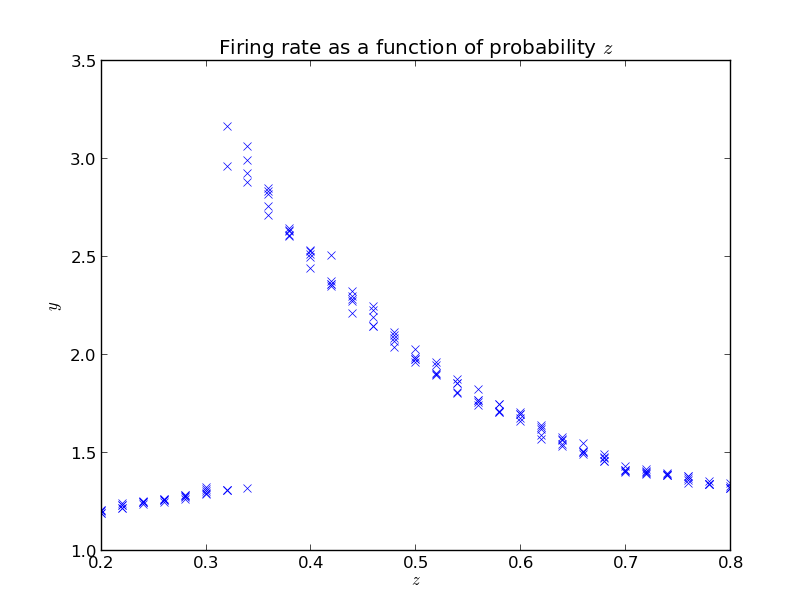
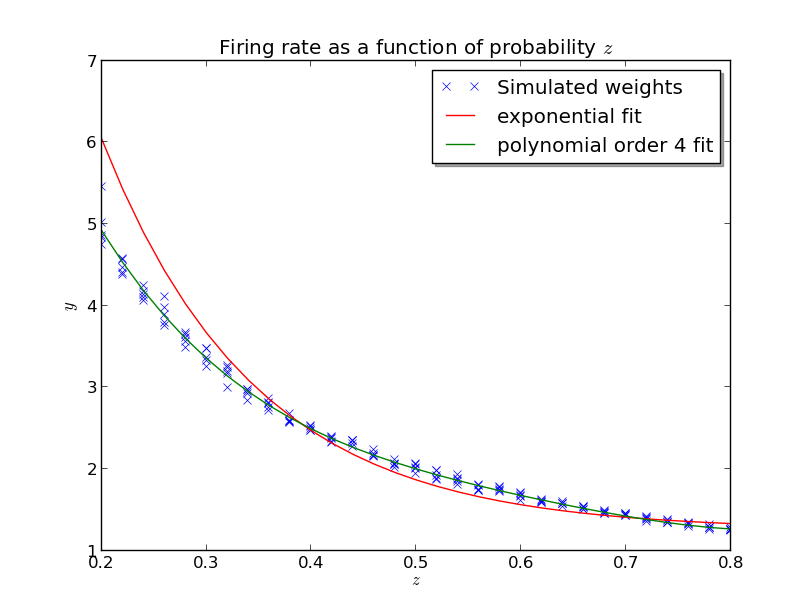
report and some code changes

diff --git a/miniproject1/ex1/plotter.py b/miniproject1/ex1/plotter.py
@@ -3,6 +3,30 @@ import numpy as np
 
 import sys
 
+def getPointsForFitting(data):
+    zInterval = []
+    w = []
+    lastZ = None
+    count = 0
+    nbZs = -1
+    for z, w_now in zip(data[:,0], data[:,1]):
+        if z != lastZ:
+            lastZ = z
+            count = 0
+            nbZs += 1
+            zInterval.append(z)
+            w.append(0.0)
+
+        w[nbZs] = float(count)/(count+1)*w[nbZs] + w_now/(count+1.0)
+        count += 1
+
+    interval = np.array(zInterval)
+    values = np.array(w)
+
+    assert (len(interval) == len(values))
+
+    return interval, values
+
 def fit_exponential(t, y, C=0):
     y = y - C
     y = np.log(y)
@@ -10,12 +34,27 @@ def fit_exponential(t, y, C=0):
     A = np.exp(A_log)
     return A, K
 
-def exponential(data, zInterval, index):
-    C = np.mean(data[-5:, 1] - 0.05)
-    A, K = fit_exponential(zInterval, data[index:, 1], C)
+def exponential(data):
+
+    (zInterval, w) = getPointsForFitting(data)
+
+    #C = np.mean(data[-5:, 1] - 0.05)
+    C = w[-1]
+    A, K = fit_exponential(zInterval[1:-1], w[1:-1], C)
     myexp = A * np.exp(K * zInterval) + C
 
-    return myexp
+    return (zInterval, myexp)
+
+def fit_polynomial(data, deg = 2):
+
+    (zInterval, w) = getPointsForFitting(data)
+    coeffs = np.polyfit(zInterval, w, deg)
+
+    poly = np.poly1d(coeffs)
+    curve = poly(zInterval)
+
+    return zInterval, curve
+
 
 def plot():
 
@@ -49,43 +88,42 @@ def plot():
     wdata = np.array(sorted(wdata))
     thdata = np.array(sorted(thdata))
 
-#    # exponential          
-#    index = 0
-#    for z in data[:, 0]:
-#        index += 1
-#        if z == 0.38:
-#            break
-#    #zInterval = np.linspace(0.38, 0.8, len(data) - index)
-#    zInterval = data[index:, 0]
-#
-#    curve = exponential(data, zInterval, index)
-
-
+    # exponential          
+    (expInterval, curveExp) = exponential(data)
+    (polyInterval, curvePoly) = fit_polynomial(data, 4)
 
     # plot
     figY = plt.figure(1)
-    plt.plot(data[:,0], data[:,1], 'x')
-    #plt.plot(zInterval, curve, 'r-')
+    plt.plot(data[:,0], data[:,1], 'x', label="Simulated weights")
+    plt.plot(expInterval, curveExp, 'r-', label="exponential fit")
+    plt.plot(polyInterval, curvePoly, 'g-', label="polynomial order 4 fit")
     plt.xlabel('$z$')
     plt.ylabel('$y$')
     plt.title('Firing rate as a function of probability $z$')
+    plt.legend(loc='upper right', shadow=True)
     figY.show()
 
-    figW = plt.figure(2)
-    plt.plot(wdata[:,0], wdata[:,1], 'x')
-    plt.xlabel('$z$')
-    plt.ylabel('$w$')
-    plt.title('Weights as a function of probability $z$')
-    figW.show()
-    
-    figTh = plt.figure(3)
-    plt.plot(thdata[:,0], thdata[:,1], 'x')
-    plt.xlabel('$z$')
-    plt.ylabel(r'$\theta$')
-    plt.title('Threshold as a function of probability $z$')
-    figTh.show()
+    #figW = plt.figure(2)
+    #plt.plot(wdata[:,0], wdata[:,1], 'x')
+    #plt.xlabel('$z$')
+    #plt.ylabel('$w$')
+    #plt.title('Weights as a function of probability $z$')
+    #figW.show()
+    #
+    #figTh = plt.figure(3)
+    #plt.plot(thdata[:,0], thdata[:,1], 'x')
+    #plt.xlabel('$z$')
+    #plt.ylabel(r'$\theta$')
+    #plt.title('Threshold as a function of probability $z$')
+    #figTh.show()
 
     raw_input()
+
+def plotOverTime(data):
+    data = np.array(data)
+
+    plt.plot(data[:,0], data[:,1])
+    plt.show()
 
 if __name__ == '__main__':
     plot()

diff --git a/miniproject1/report/answers3.tex b/miniproject1/report/answers3.tex
@@ -1,14 +1,36 @@
+\clearpage
 \section{Explaining V1 Receptive Field Formation}
 
-\paragraph{Preprocessing}
+\subsection{Code organization}
+
+The code organization is similar as in the question $1.2$. The files description
+is given below.
+\begin{itemize}
+    \item \texttt{ODE.py} contains the abstract class \texttt{ODE} which defines
+        the interface for ordinary differential equations.
+    \item \texttt{Integrator.py} contains the abstract class \texttt{Integrator}
+        and its derived classes \texttt{ForwardDifference} and
+        \texttt{RungeKutta4} which numerically solve an ordinary differential
+        equation.
+    \item \texttt{Neuron.py} contains the class \texttt{Neuron}, which derives
+        from \texttt{ODE}. It implements the functionality of a BCM neuron, and
+        also can be treated as an ODE.
+    \item \texttt{Patch.py} contains the class \texttt{Patch} which holds the
+        on and off arrays of an input patch.
+    \item \texttt{preprocess.py} implements the functionality for preprocessing
+        the given images and creation of the patches.
+    \item \texttt{plotter.py} contains the various functionality for plotting.
+    \item \texttt{simulation.py} loads the preprocessed data, generates the
+        patches and runs the simulation. In the end, it stores generated plots
+        in the directory \texttt{simulation}.
+\end{itemize}
+
+\subsection{Preprocessing}
 Normalization and generation of input patches was done in a separate
 preprocessing step. Preprocessing is called with
-\begin{figure}[!htbl]
-    \begin{verbatim}
+\begin{lstlisting}[language=bash]
 $ python preprocess.py
-\end{verbatim}
-\end{figure}
-
+\end{lstlisting}
 Normalization step creates the file with suffix \texttt{\_normalized.data},
 which contains a \texttt{numpy} array of normalized input image, serialized to
 string. Afterwards, the file which describes patches is created. Its suffix is
@@ -17,6 +39,8 @@ coordinates of upper-left corner of the $16\times16$ pixel patch. No two
 patches are identical. This way of describing patches makes sure that additional
 preprocessed data won't take too much memory, while still being easy to create
 generated patches.
+
+\subsection{Simulation}
 
 \begin{figure}[h]
 \centering
@@ -58,7 +82,6 @@ meant the bigger changes in $W$, but later everything stabilized.}
 \label{fig:theta}
 \end{figure}
 
-\paragraph{Simulation}
 The simulation was performed many times. Every simulation was done with $150000$
 iterations, with $50000$ different patches. Every simulation has had different
 permutations of patches, and occasionally, patches were constructed again using

diff --git a/miniproject1/report/answers1.tex b/miniproject1/report/answers1.tex
@@ -134,3 +134,47 @@ we know that the stability condition for fixed points should satisfy $\frac{d\do
 and Eq. \ref{eq:ome} is always less than zero for $p > 1$. However, for $\omega = 0$ we see that $\frac{d\dot \omega}{d\omega} <0$ (Eq. \ref{eq:stab}) holds only if p =0. 
 
 Finally, $\omega = -1/x$ can satisfy the stability criteria $\frac{d\dot \omega}{d\omega} <0$ for $p < 1$, but it is not a fixed point for these p values.
+
+
+
+
+\subsection{Question (Simulation)}     % subsection 1.2
+
+\subsubsection{Code organization}
+
+Code is organized in several files. The files are described below.
+\begin{itemize}
+    \item \texttt{ODE.py} contains the abstract class \texttt{ODE} which defines
+        the interface for ordinary differential equations.
+    \item \texttt{Integrator.py} contains the abstract class \texttt{Integrator}
+        and its derived class \texttt{ForwardDifference} which numerically solve
+        an ordinary differential equation.
+    \item \texttt{BCM.py} contains the class \texttt{BCM}, which derives from
+        \texttt{ODE}. It implements the functionality of a BCM neuron, and also
+        can be treated as an ODE.
+    \item \texttt{main.py} runs the simulation for varying values of parameter
+        $z$.
+    \item \texttt{plotter.py} contains the various functionality for plotting.
+        It can also be called as a script to plot the simulated data.
+    \item \texttt{simulation.sh} is a script that runs the main simulation
+        several times and then calls the plotter.
+\end{itemize}
+
+
+\subsubsection{Comment on results}
+
+\begin{figure}[h]
+\centering
+\includegraphics[width=0.7\textwidth]{figures/ex1-2.png}
+\caption{Plot of a firing rate as a function of probability $z$, data from $5$
+simulations, together with exponential and polynomial curve fits.}
+\label{fig:ex12}
+\end{figure}
+
+The requested results can be seen in the Figure \ref{fig:ex12}. It can be
+observed that neuron's response decays with probability $z$ as a $4$-th order
+polynomial. This means, the more the input neuron fires, the connection between
+them becomes weaker. From this we can assume that the BCM learning rule is
+anti-Hebbian. In other words, $\theta$ is superlinear function of $y$, which
+makes the expression $x(y^2 - y\theta)$ negative, and confirms the
+anti-Hebbian learning.

diff --git a/miniproject1/ex1/Integrator.py b/miniproject1/ex1/Integrator.py
@@ -1,4 +1,6 @@
 import numpy as np
+from plotter import plotOverTime
+
 
 class Integrator:
     '''class that implements numerical integration in time
@@ -21,29 +23,47 @@ class Integrator:
             
     def integrateUntilConvergence(self):
         '''integrate until convergence
-        modifiet to do the following:
-            -> integrate minimally 2000 steps
+        modified to do the following:
+            -> integrate minimally 2 000 steps
             -> then, if convergence met, stop
-            -> integrate maximally 100000 steps (this raises error)
+            -> integrate maximally 100 000 steps (this raises error)
+        new modification:
+            -> integrate 50 000 steps, this way much better behavior
+            -> convergence reaches every time (2000 was not enough, even though
+                the treshold was achieved)
+            -> if time graph plotted, oscillations can be observed after the
+                convergence - this oscillation is not low and not easily tracked
+                with code, so that's why 50 000 was chosen
         '''
         previous = self.ode.getODEState() # numpy array
         i = 0
+
+        toPlot = []
         
         while True:
+            toPlot.append( (i, self.ode.w) )
+
             self.nextStep()
             #if i % 100 == 0:
                 #print 'w = %f\ttheta = %f\ty = %f' % (self.ode.w, self.ode.theta,
                 #        self.ode.evaluateNeuron(self.ode.x0))
             
             current = self.ode.getODEState()
-            if i > 2000 and np.linalg.norm(previous - current) <= self.convergenceThreshold:
-                break 
+#            if i > 2000 and np.linalg.norm(previous - current) <= self.convergenceThreshold:
+#                break 
             
             previous = current
             i += 1
             self.i = i
-            if i > 100000:
+            if i > 50000:
+                break
+                plotOverTime(toPlot)
                 raise RuntimeError("did not converge")
+
+        #plotOverTime(toPlot)
+
+
+
             
     def nextStep(self):
         ''' this will perform next step of a particular integration method'''

diff --git a/miniproject1/report/report.tex b/miniproject1/report/report.tex
@@ -12,7 +12,7 @@
 \usepackage{amsthm}
 \usepackage{amssymb}
 \usepackage{amsfonts}
-%\usepackage{lstlisting}
+\usepackage{listings}
 
 \usepackage{tabularx,colortbl,booktabs}
 

diff --git a/miniproject1/report/answers2.tex b/miniproject1/report/answers2.tex
@@ -1,3 +1,4 @@
+\clearpage
 \section{Selectivity and Optimization Principle}
 \subsection{Question (Paper \& Pencil)} 
 
